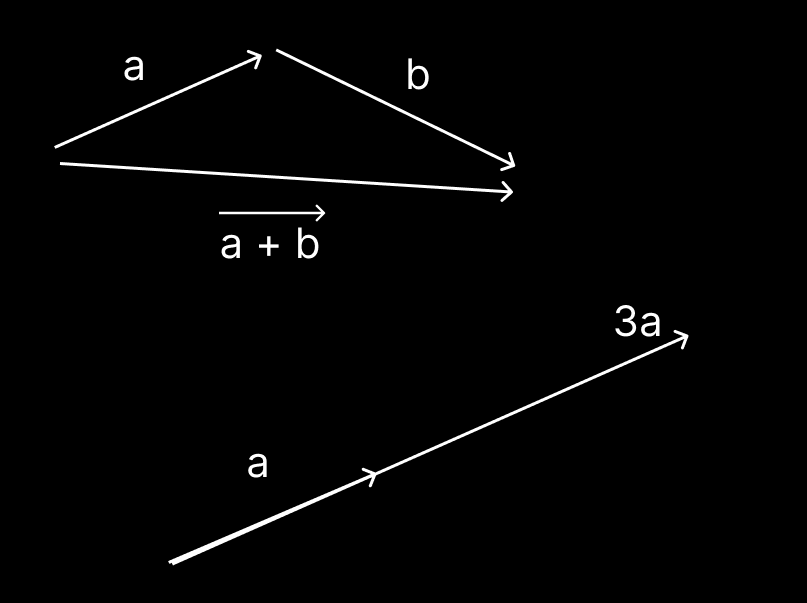
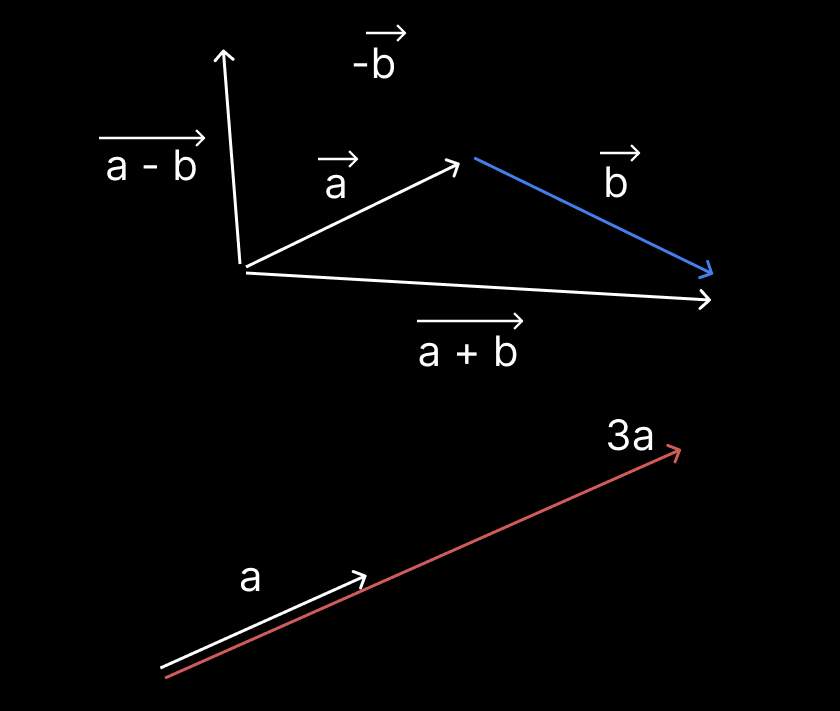
adding images

diff --git a/data/s2.md b/data/s2.md
@@ -1,0 +1,152 @@
+# Session 1: Introduction et Mathématiques Essentielles (4 blocs)
+
+---
+
+Physique dans le Jeu Vidéo - Session 1: Introduction et Mathématiques Essentielles (avec Rapier)
+
+Bienvenue ! Ce cours vous plongera dans la physique des jeux vidéo, en utilisant Rapier, un moteur physique performant en Rust, facilement utilisable dans le navigateur. Nous allons explorer les bases de la physique pour créer des expériences de jeu immersives et réalistes.
+
+![Background image with moving shapes and Rapier logo](../images/intro.png)
+
+---
+
+Qu'allez-vous apprendre ?
+
+*   Comprendre les principes de la physique classique.
+*   Appliquer ces principes à la création de jeux vidéo.
+*   Utiliser **Rapier** (dans le navigateur) pour simuler des objets physiques.
+*   Développer des compétences en programmation orientées physique.
+
+![Pyramid representing the course structure](../images/pyramide.png)
+
+---
+
+Comment se déroulera le cours ?
+
+*   10 Sessions, 4 blocs par session.
+*   **Évaluation :**
+    *   Devoirs (30%) : Implémentations pratiques.
+    *   Examen de Mi-Session (30%) : Quiz Théorique
+    *   Examen Final (40%) : Théorie + Application (jeu complet).
+*   Accès aux ressources : (Livre de référence, Documentation Rapier, Forum en ligne).
+
+![Calendar showing the course schedule](images/course_calendar.png)
+
+---
+
+La Physique : Plus que des explosions !
+
+*   L'immersion : le réalisme améliore l'expérience du joueur.
+*   Le gameplay :  Nouvelles mécaniques de jeu, interactions dynamiques.
+*   Exemples : *The Legend of Zelda: Breath of the Wild*, *Portal*, *Angry Birds* (rappeler que ces jeux sont toujours des exemples).
+
+![Game screenshots showcasing physics](../images/example_01.png)
+
+---
+
+Vecteurs : Le GPS des Objets Virtuels
+
+*   Les vecteurs : Magnitude (longueur) et direction.
+*   Décrivent la position, la vitesse, l'accélération, les forces.
+*   Essentiels pour décrire le mouvement et les interactions.
+
+![2D plane with position and velocity vectors](../images/vectors.png)
+
+---
+
+Déplacements et Différences
+
+*   **Addition :**  $\vec{a} + \vec{b}$ (tête-bêche, parallélogramme).
+*   **Soustraction :**  $\vec{a} - \vec{b}$.
+*   Utilisation : Déplacer un objet, trouver la distance entre deux points.
+
+
+
+![Vector addition and subtraction](../images/addition.png)
+
+---
+
+Changer la Vitesse ou la Force
+
+*   $k \vec{a}$ : Modification de la *magnitude* (longueur) du vecteur.
+*   $k > 1$ :  "Accélérer" / Augmenter la force.
+*   $0 < k < 1$ : "Ralentir" / Diminuer la force.
+*   $k < 0$ : Inverser la direction.
+
+![Scalar multiplication of a vector](../images/dim2.png)
+
+---
+
+Le secret des angles
+
+*   Explication du produit scalaire : Formule et explication géométrique (projection).
+
+$\overrightarrow{a}.\overrightarrow{b}= \overrightarrow{b}.\overrightarrow{a}$ : Dot product ou le produit scalaire. 
+
+Le résultat du produit scalaire est un nombre (un scalaire), l'opération est commutative.
+
+$ \begin{bmatrix} 3 \\ -5 \end{bmatrix} . \begin{bmatrix} 2 \\ 1 \end{bmatrix} = 3.2 + (-5).1$
+
+
+$\vec{a}⋅ \vec{b} =∣a∣.∣b∣.cosθ$
+*   Exemples : Déterminer l'angle entre des vecteurs, l'éclairage (survol).
+*   Si proche de 1 : même direction ; -1 : directions opposées ; 0 : perpendiculaires.
+
+![Two vectors with an angle θ and projection](../images/dot.png)
+
+---
+
+Rotation et Orientation
+
+*   En 2D :  Calcul du sens d'une rotation (sens horaire ou anti-horaire).
+*   Applications : Utile pour le sens des rotations.
+
+![Two vectors indicating rotation direction](images/cross_product_2d.png)
+
+---
+
+Le Rythme du Mouvement
+
+*   Vitesse : Dérivée de la position par rapport au temps ($\vec{v} = \frac{d\vec{x}}{dt}$).
+*   Accélération : Dérivée de la vitesse par rapport au temps ($\vec{a} = \frac{d\vec{v}}{dt}$).
+
+![Object in motion with velocity and acceleration vectors](images/velocity_acceleration.png)
+
+---
+
+L'Inversion du Temps
+
+*   Position : Intégrale de la vitesse.
+*   Vitesse : Intégrale de l'accélération.
+*   Lien avec l'intégration numérique (concept général).
+
+![Curve representing velocity and area under the curve](images/integration.png)
+
+---
+
+Bienvenue dans Rapier ! (dans le navigateur)
+
+*   Présentation du framework.
+*   Lien vers les ressources et la documentation.
+
+![Screenshot of the browser](images/browser_screenshot.png)
+
+---
+
+Votre premier objet physique !
+
+*   Explication du code "Hello World" simplifié en Rapier.
+*   Classes clés : *RigidBody*, *Collider*, *PhysicsWorld*.
+*   (Mettre en évidence le code HTML, JS).
+
+![A simple square falling under gravity in a web environment](images/falling_square_rapier.png)
+
+---
+
+Activité : Bouger un Carré (Ouverture de la session 2)
+
+*   Activité : Modifier les valeurs pour faire bouger le carré.
+*   Préparer les équations de la session 2, et les faire jouer.
+*   Questions et réponses
+
+![Result of the activity](images/activity_result.png)
